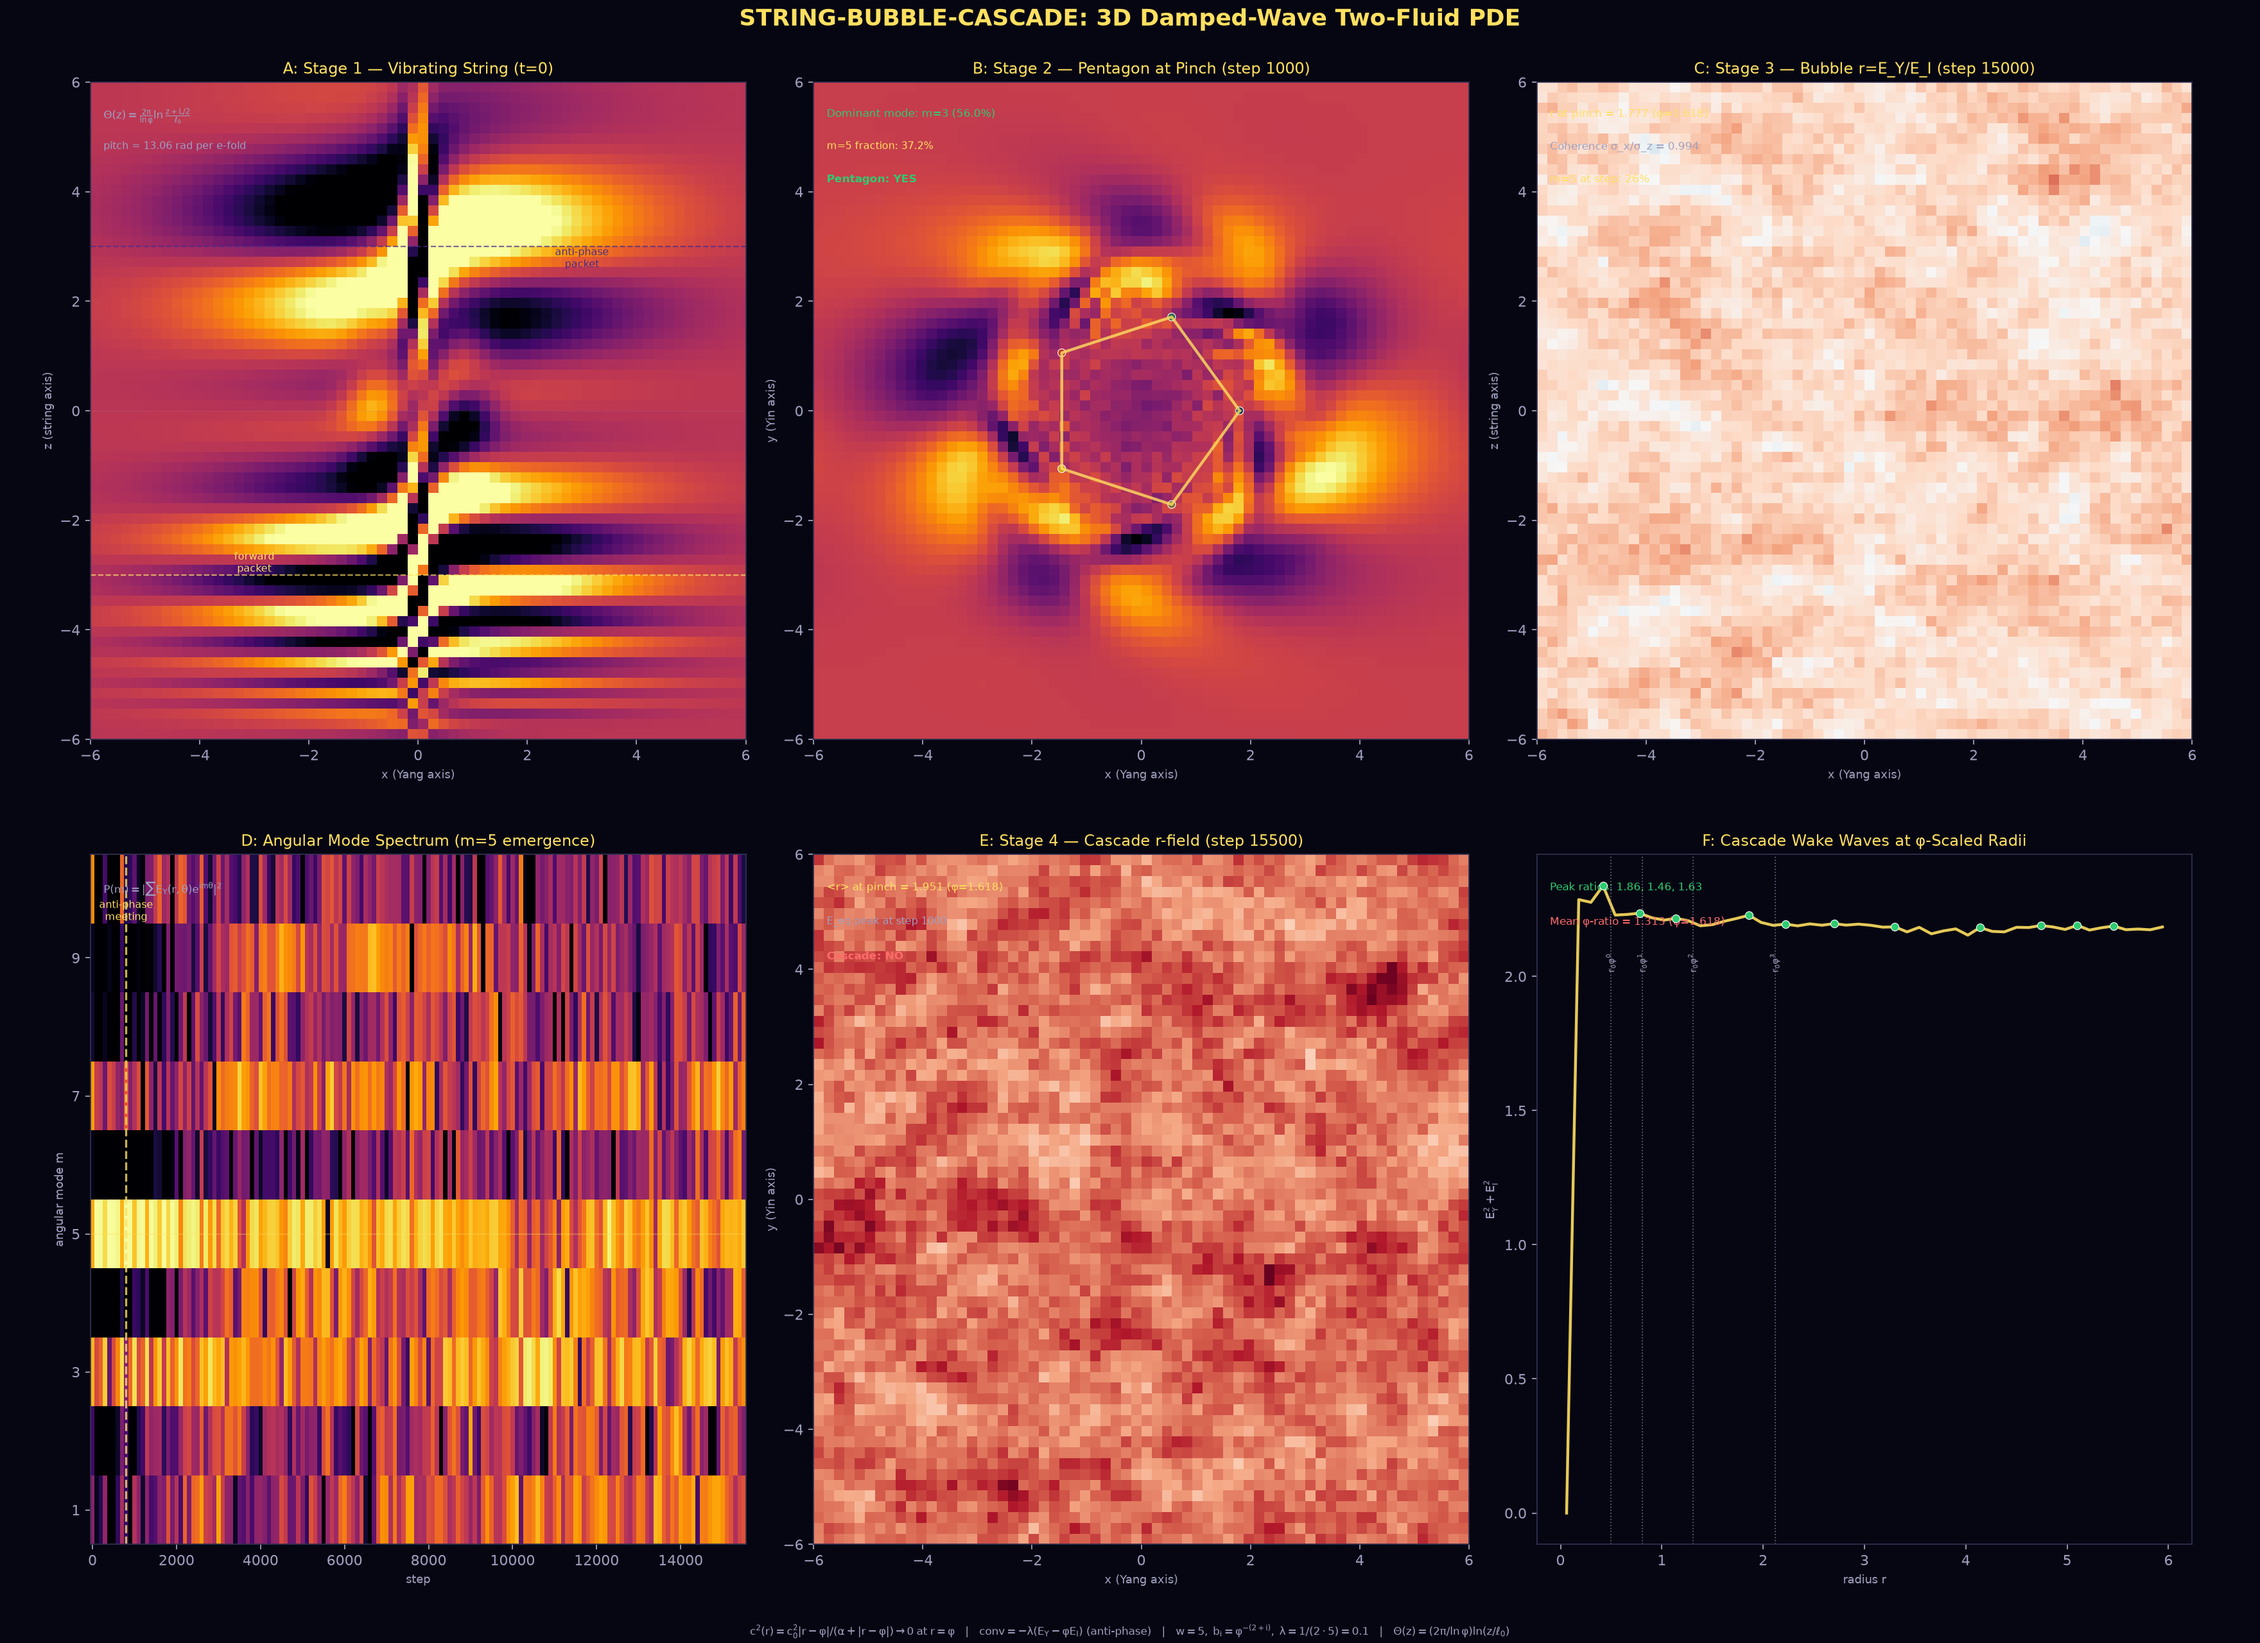
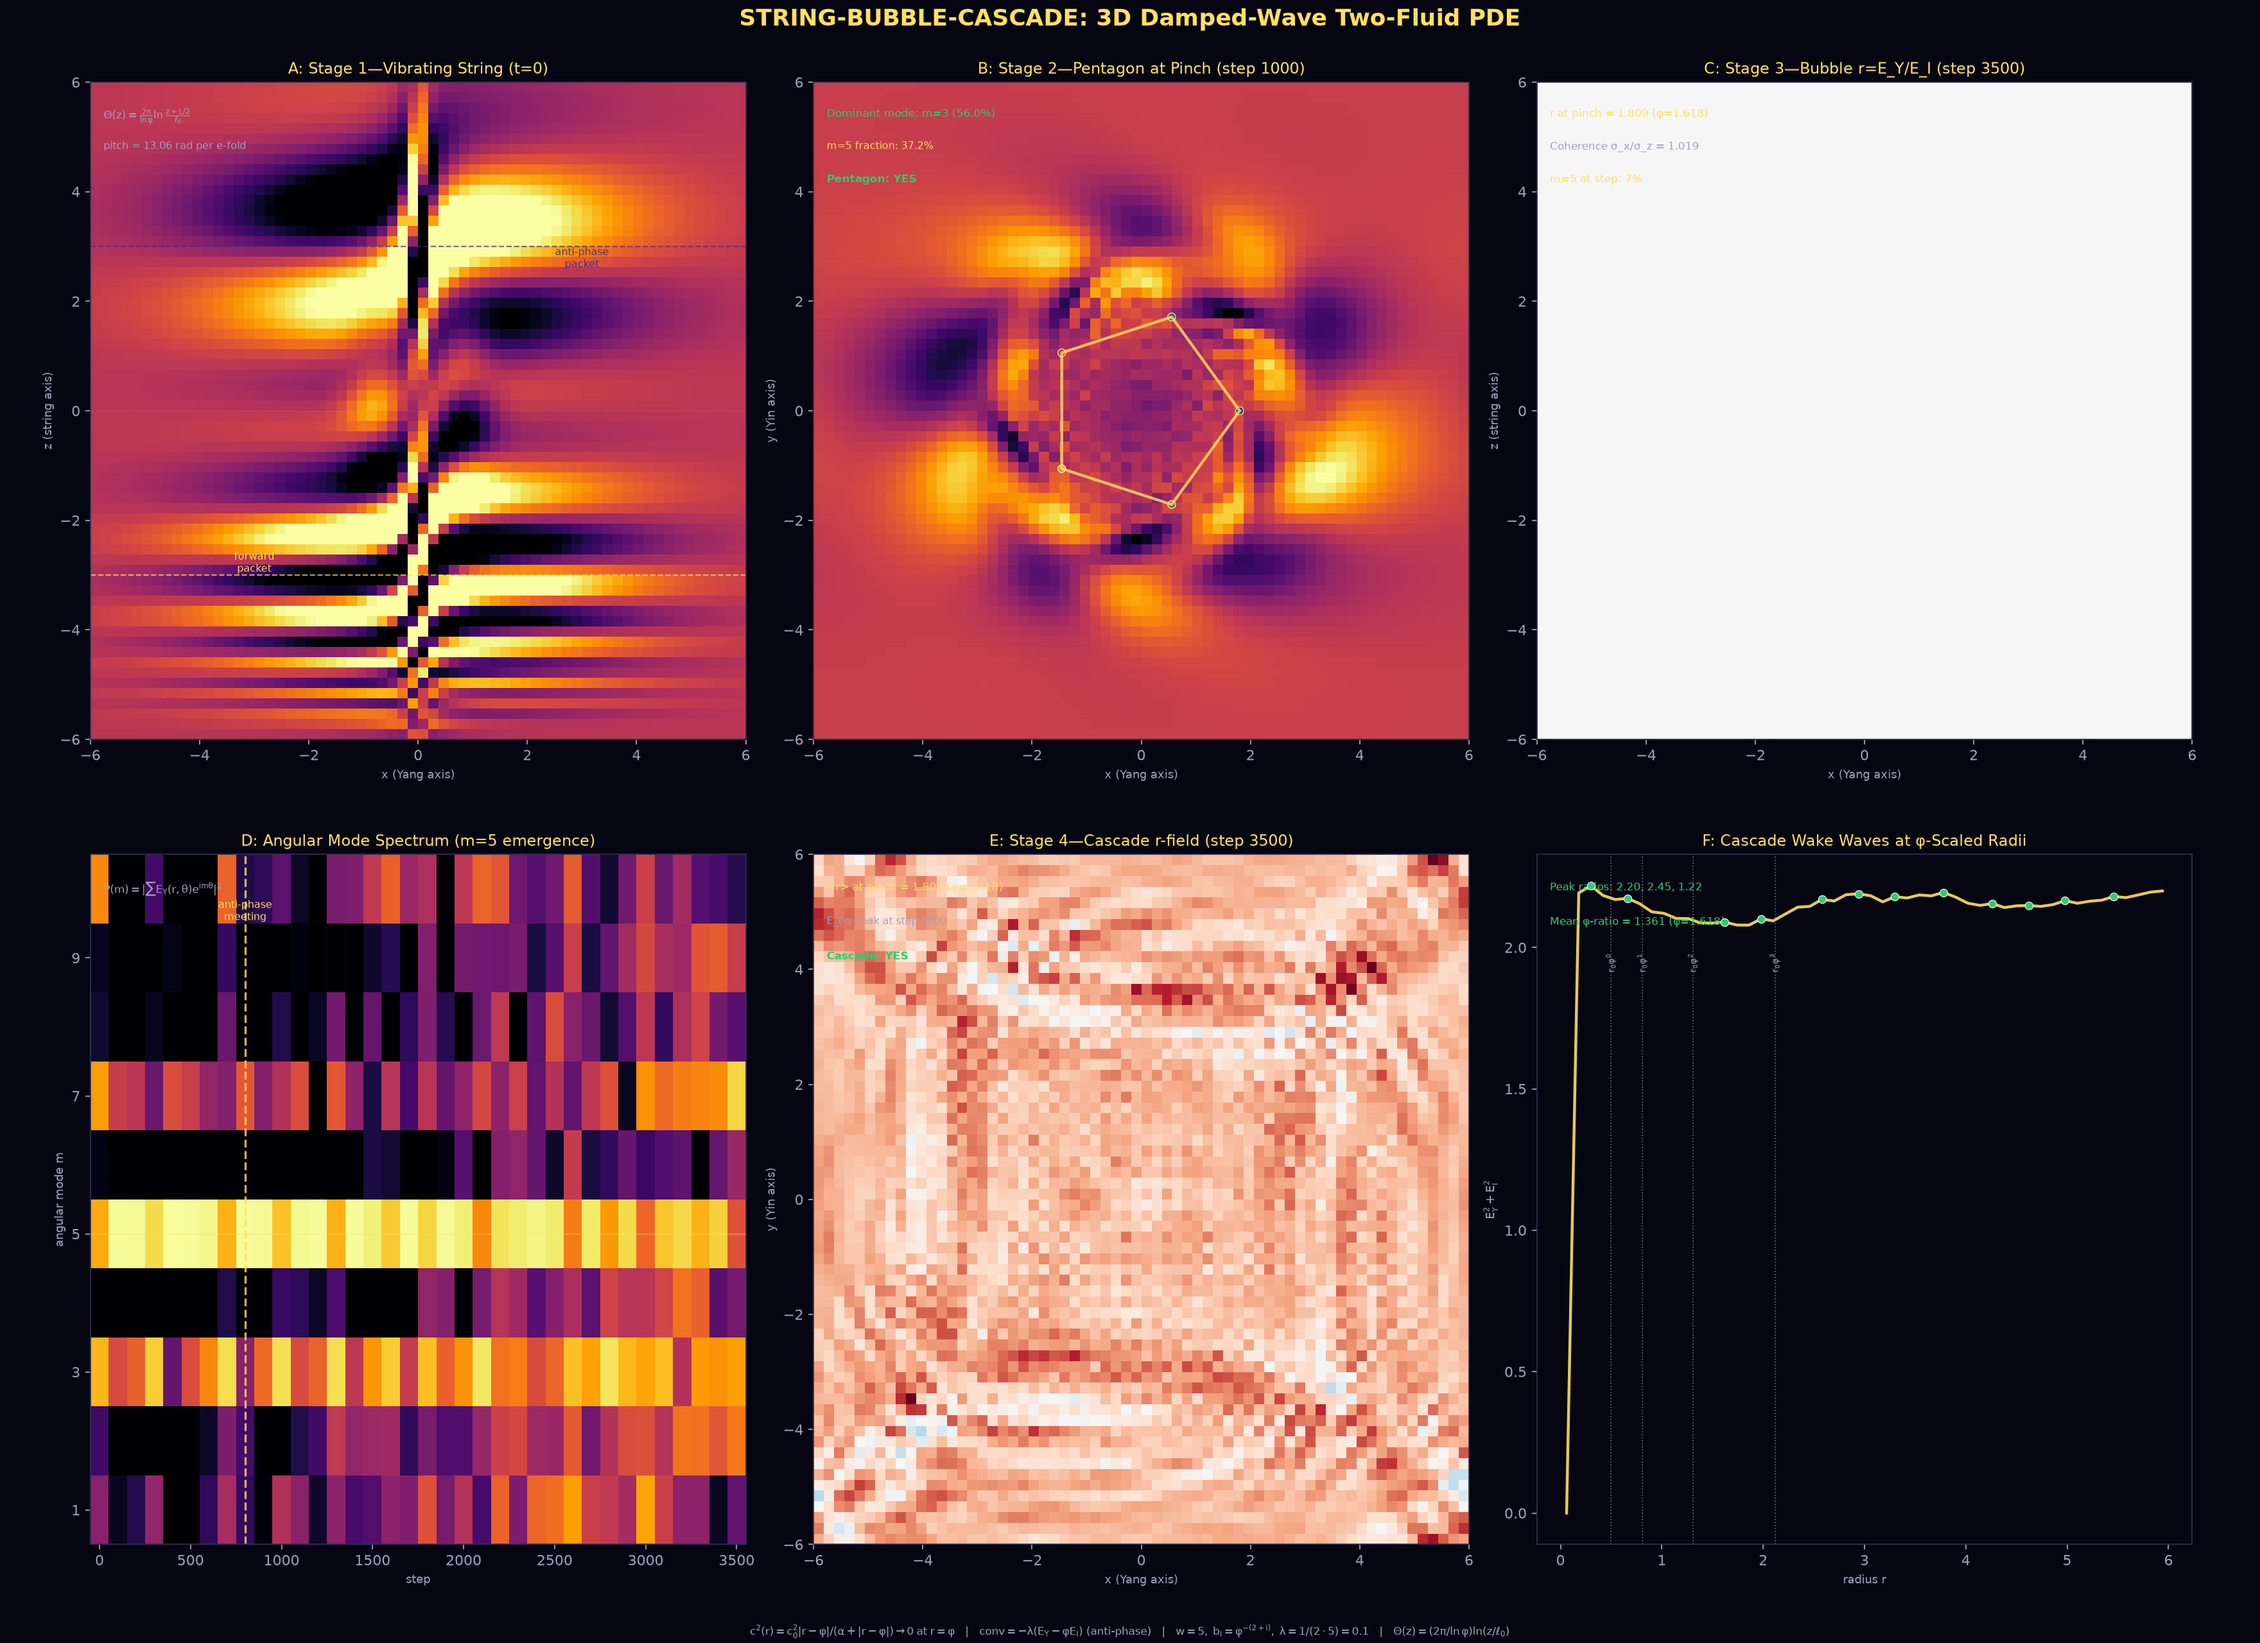
feat: reduce string_bubble_cascade default steps and refresh figure
steps_default 15500 -> 3500; PNG regenerated with the new default and committed with its script.

diff --git a/CassiTheory/visual-explainers/string_bubble_cascade.py b/CassiTheory/visual-explainers/string_bubble_cascade.py
@@ -50,7 +50,7 @@ plt.rcParams.update({
 
 # ─── CLI ─────────────────────────────────────────────────────────────────────
 N_default = 64
-steps_default = 15500
+steps_default = 3500
 if "--N" in sys.argv:
     idx = sys.argv.index("--N")
     N_default = int(sys.argv[idx + 1])
